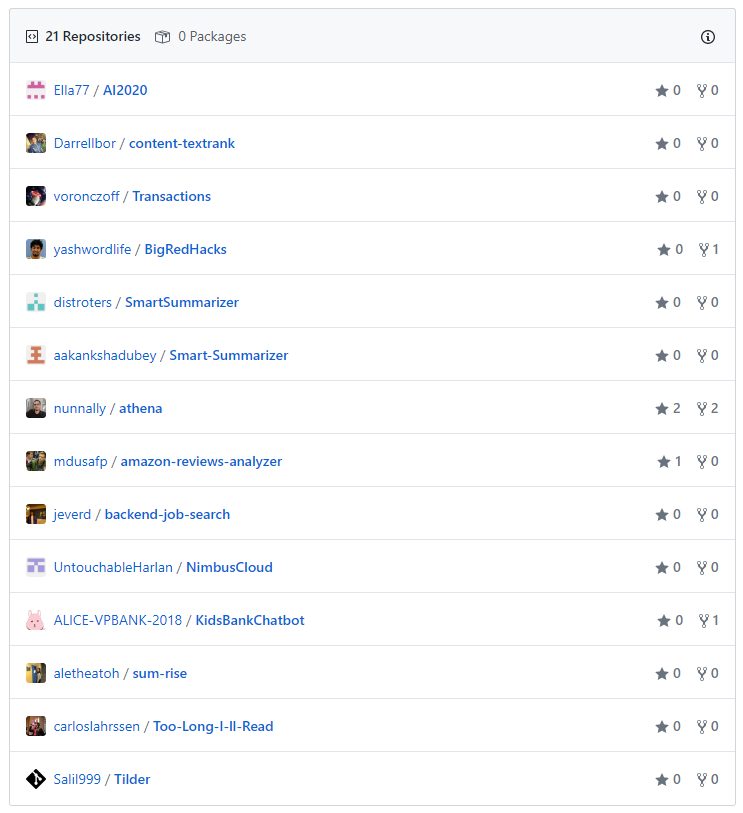
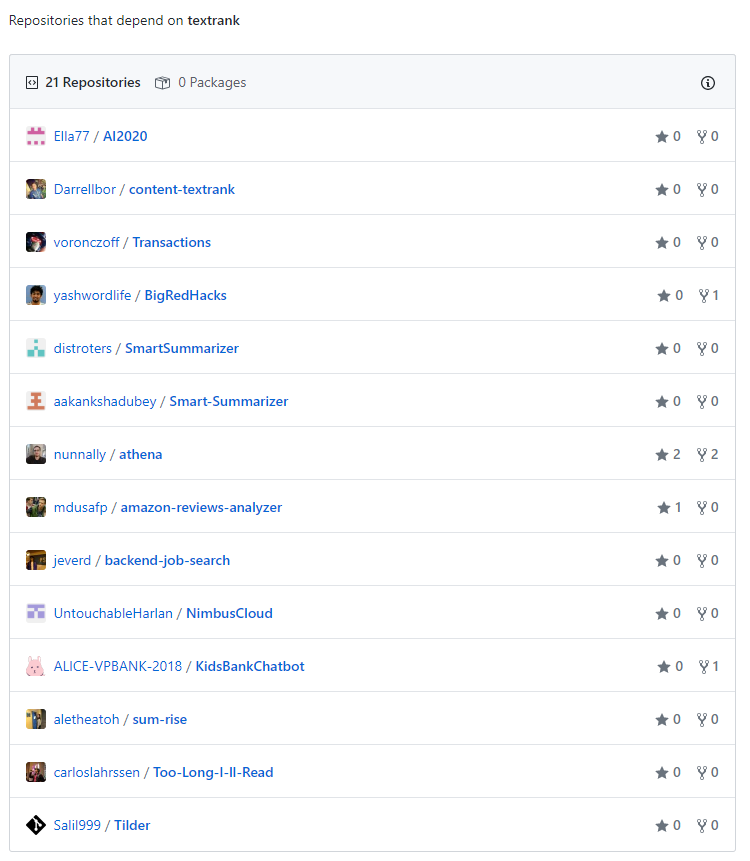
updating my latest article and adding github buttons

Changed region(s): [[0.0, 0.0, 0.4024, 0.9225], [0.8668, 0.0308, 0.9906, 1.0], [0.031, 0.9533, 0.2167, 0.984]]

diff --git a/src/components/introduction.js b/src/components/introduction.js
@@ -1,9 +1,23 @@
 import React from "react"
+import GitHubButton from "react-github-btn"
 
 const Introduction = () => {
   return (
     <div>
       <h1>Ope, looks like you ran into me.</h1>
+      <div className="introduction-github-buttons">
+        <GitHubButton 
+          href="https://github.com/sponsors/nadr0"
+          data-color-scheme="no-preference: light; light: light; dark: dark;" 
+          data-icon="octicon-heart" 
+          data-size="large" 
+          aria-label="Sponsor @nadr0 on GitHub">Sponsor</GitHubButton> 
+        <GitHubButton 
+          href="https://github.com/nadr0"
+          data-size="large"
+          data-show-count="true"
+          aria-label="Follow @nadr0 on GitHub">Follow @nadr0</GitHubButton>
+      </div>
       <p>Since you are here, check out some of the articles I have written.</p>
     </div>
   )

diff --git a/src/components/layout.css b/src/components/layout.css
@@ -633,3 +633,7 @@ pre tt:after {
 .postlinks > .postlink {
   margin-bottom: 12px;
 }
+
+.introduction-github-buttons > span:nth-child(n+2) {
+  margin-left: 4px;
+}

diff --git a/src/markdown-pages/textrank-writing-an-npm-package.md b/src/markdown-pages/textrank-writing-an-npm-package.md
@@ -23,19 +23,19 @@ I created two open source repositories one for [Vanilla JS](https://github.com/n
 1. Finding an academic paper and implementing some of its findings
 2. Create an open source library
 3. Publish the library to NPM
-4. Support vanilla JS and node.js in the most basic way.
+4. Support vanilla JS and node.js
 
 ### How the package has performed over the past few years
 
 Three years after creating this package it is cool seeing all the downloads and how people have used the repositories thanks to npm statistics and github repository statistics. 
 
-Let's take a look at [TextRank-node](https://github.com/nadr0/TextRank-node)
+### Let's take a look at [TextRank-node](https://github.com/nadr0/TextRank-node)
 
-- Stars - [https://github.com/nadr0/TextRank-node/stargazer](https://github.com/nadr0/TextRank-node/stargazers)s
+#### Stars - [https://github.com/nadr0/TextRank-node/stargazer](https://github.com/nadr0/TextRank-node/stargazers)s
 
 As of writing this post my package has a total of 15 stars!
 
-- Downloads - [https://npm-stat.com/charts.html?package=textrank&from=2017-03-26&to=2020-03-26](https://npm-stat.com/charts.html?package=textrank&from=2017-03-26&to=2020-03-26)
+#### Downloads - [https://npm-stat.com/charts.html?package=textrank&from=2017-03-26&to=2020-03-26](https://npm-stat.com/charts.html?package=textrank&from=2017-03-26&to=2020-03-26)
 
 I have a total of 2,410 downloads which probably a lot of them are due to bots or package listing websites that just download all packages. 
 
@@ -43,23 +43,35 @@ I have a total of 2,410 downloads which probably a lot of them are due to bots o
 
 Overall it is cool to see all the downloads that have taken place over time. It is hard to tell but probably all the valleys are the actual amount of downloads instead of the highs due to the amount of auto downloads or bots who download packages.
 
-- Github search
+### Github search
 
-while not logged into my account I searched textrank in the search bar and here are the results.
+While not logged into my account I searched textrank in the search bar and here are the results.
 
 ![github search results for textrank](../images/textrank-github-search.png)
 
 I see my package on the bottom of the fourth page!
 
-I made this post to reflect on a package I wrote three years ago and it is cool to see how far it is come. It isn't a massively used package but I like I wrote a package and others can use for side projects, hack-a-thons, or proof of concept. This pushed me to try new things in the javascript community that I have not done before and inspires me to write more packages. Though I really haven't released many packages since then but my goal is to create useful packages with purpose. 
+### Github depengency graph
 
-Try this out for yourself and set these goals,
+On my repository for [TextRank-node](https://github.com/nadr0/TextRank-node) I can see which other respositories are depend on my package.
+
+![github dependency graph](../images/textrank-repos-used.png)
+
+The respositories range from class projects, hackathon projects, proof of concepts, side projects, and more. 
+
+It is awesome to see how people are using my package to help create their application.
+
+### Reflection
+
+I made this post to reflect on a package I wrote three years ago and it is cool to see how far it is come. It isn't a massively used package but I like that I wrote a package and others can use for side projects, hackathons, or proof of concept. This pushed me to try new things in the javascript community that I have not done before and inspires me to write more packages. Though I really haven't released many packages since then but my goal is to create useful packages with purpose. 
+
+### Try this out for yourself and set these goals
 
 1. Find an academic paper and implementing some of its findings
-    1. Papers can be long and have many components to the over all topic it is discussing. Try implementing a few of the large components of the paper. 
+    - Papers can be long and have many components to the over all topic it is discussing. Try implementing a few of the large components of the paper. 
 2. Create an open source library
-    1. Publish your code online with a useful open source license. I use Github a lot so that is why I posted mine there. 
+    - Publish your code online with a useful open source license. I use Github a lot so that is why I posted mine there. 
 3. Publish the library to a package manager
-    1. As I am writing this I realized this is all javascript oriented, actually you should implement your library in any language you want! Either make it available in a package manager of your choice and make sure it can be built from source otherwise!
+    - As I am writing this I realized this is all javascript oriented, actually you should implement your library in any language you want! Make it available in a package manager of your choice and make sure it can be built from source code!
 4. Support simple workflows and basic language support
-    1. For example, Javascript has a ton of different ways of writing code. Vanilla JS, Typescript, JSX, ES6 (+), etc.. Try to support the most basic way of including the code into the ecosystem then branch out to the other supported workflows.
+    - For example, Javascript has a ton of different ways of writing code. Vanilla JS, Typescript, JSX, ES6 (+), etc.. Try to support the most basic way of including the code into the ecosystem then branch out to the other supported workflows.
